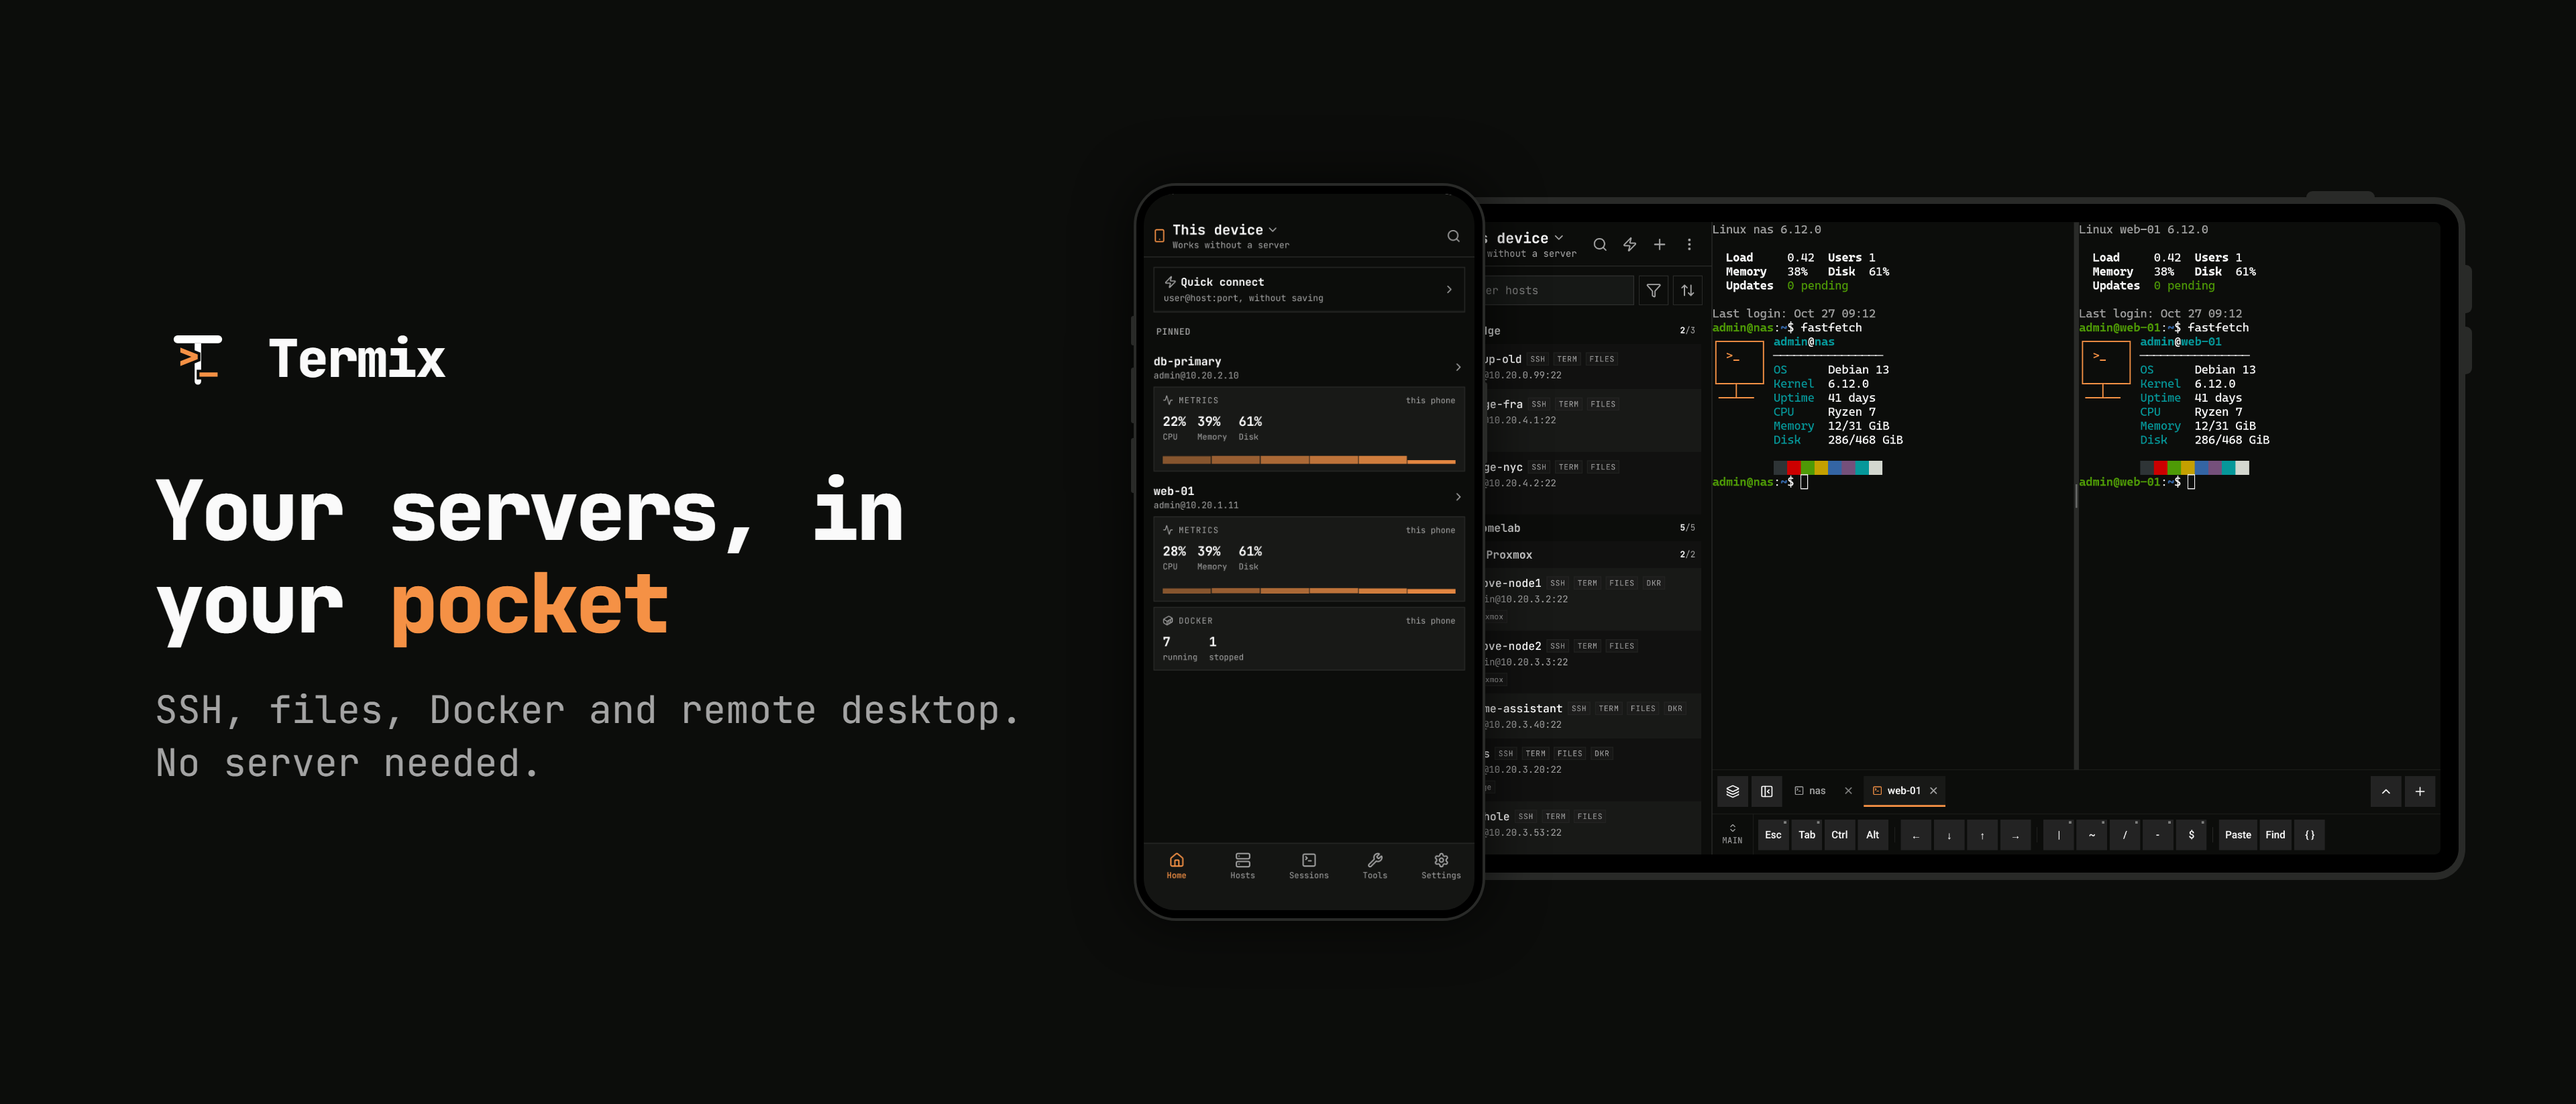
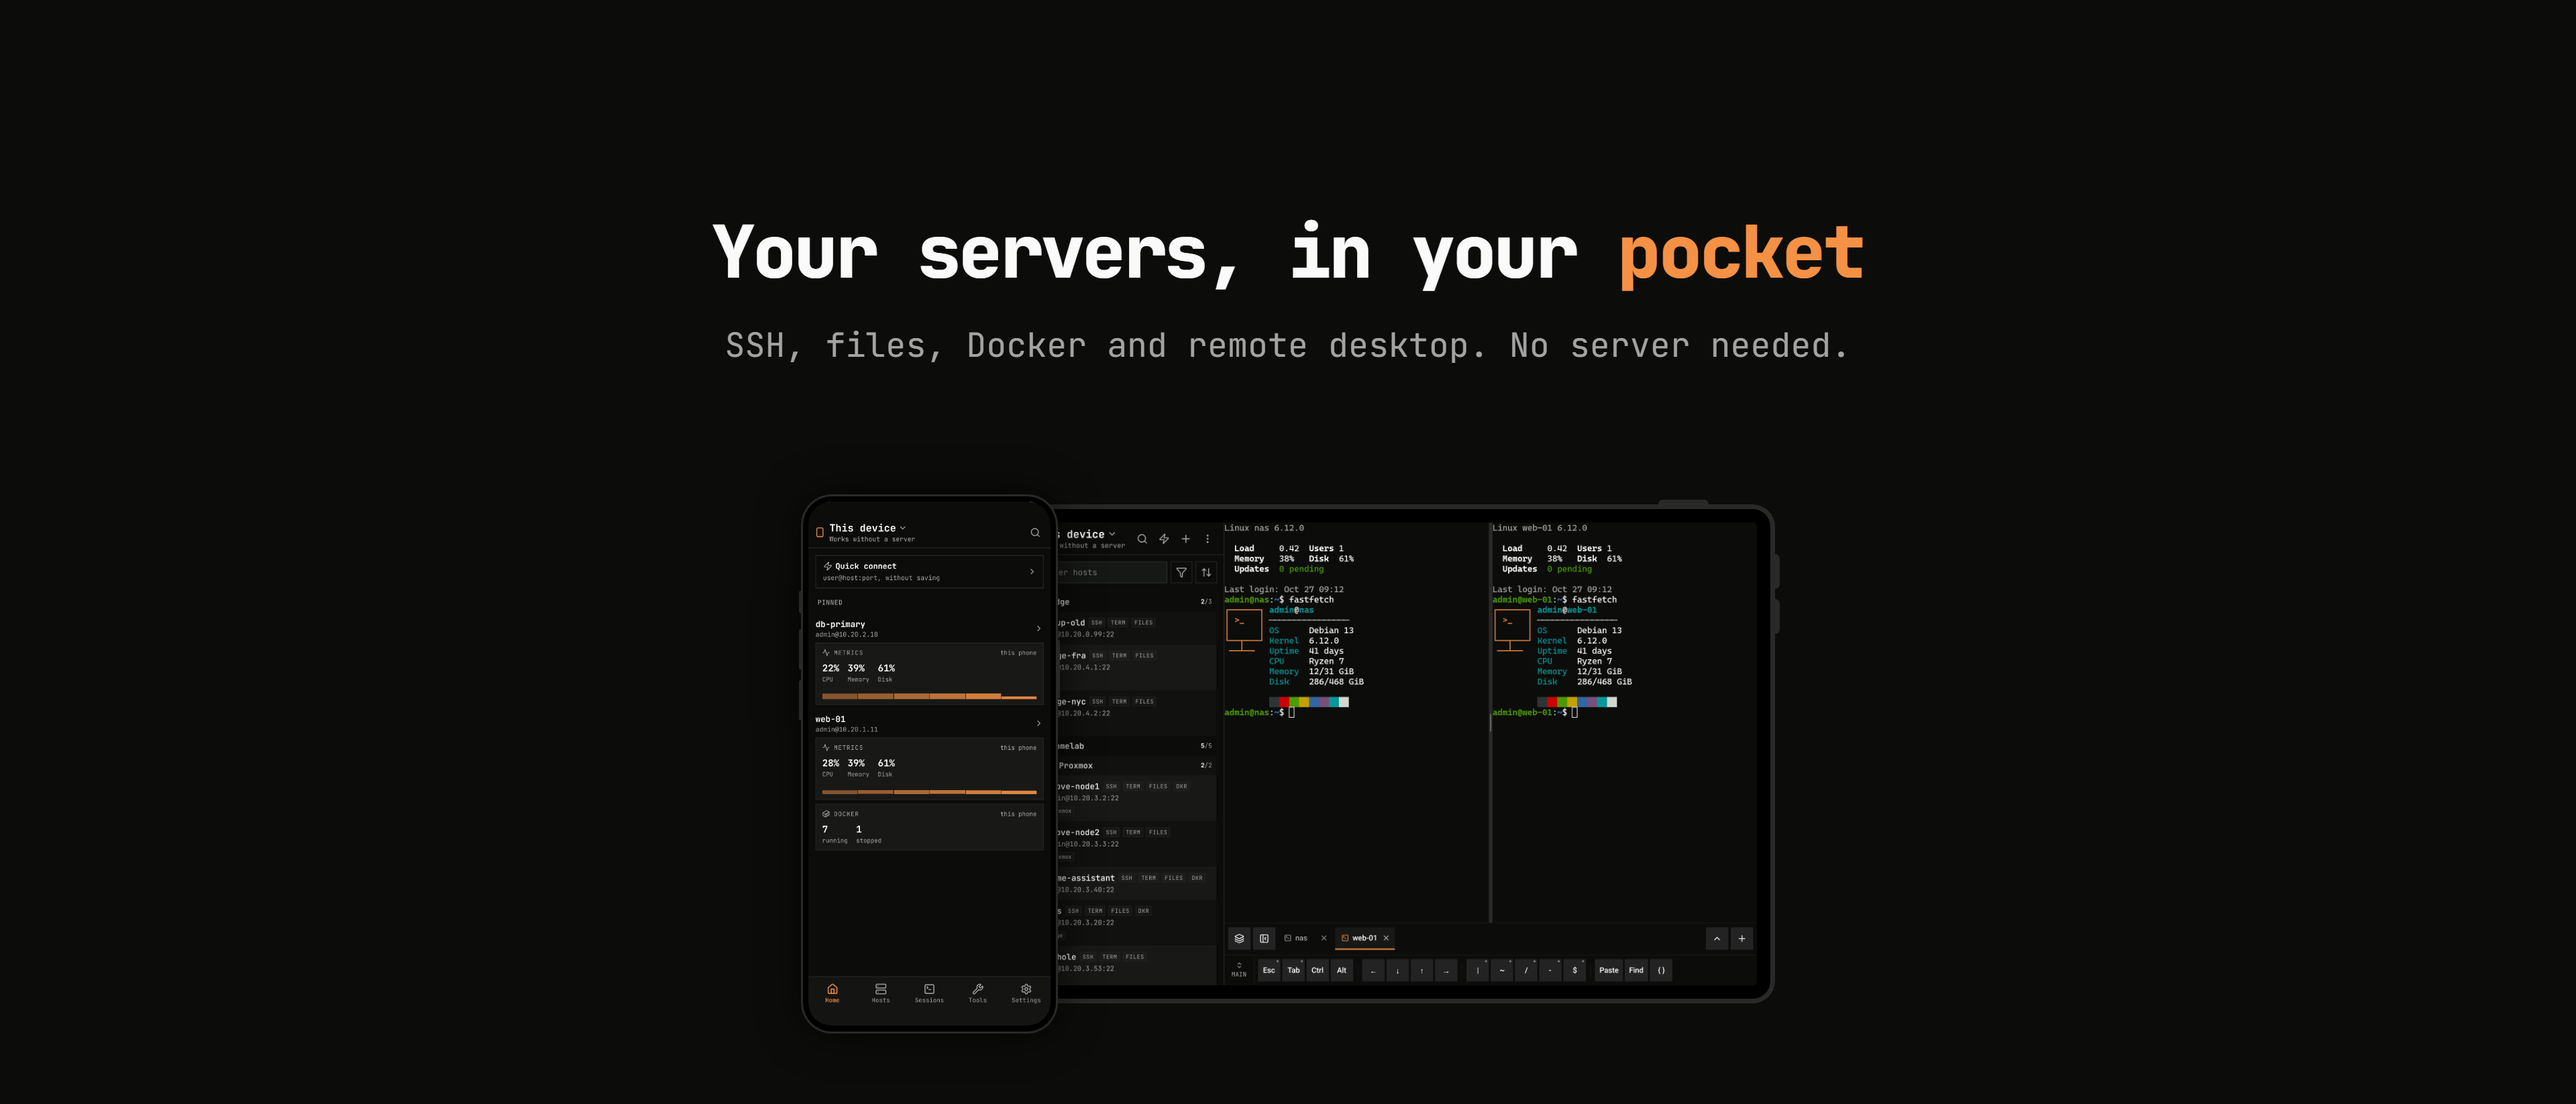
fix: store media header crop, iPad preview orientation, aligned titles, new sizes

diff --git a/store/render/Banner.tsx b/store/render/Banner.tsx
@@ -12,6 +12,11 @@ export type BannerProps = {
   phone: Shot;
   theme: string;
   accent: string;
+  /**
+   * Part of the art that is always shown, centered. Phones crop the App Store
+   * header to its middle, so everything has to fit in there.
+   */
+  safe?: { width: number; top: number; bottom: number };
 };
 
 /**
@@ -19,11 +24,15 @@ export type BannerProps = {
  * on the left, taller ones put it on top.
  */
 export function Banner(props: BannerProps) {
-  const { width, height, tablet, phone } = props;
+  const { tablet, phone, safe } = props;
   const colors = palette(props.theme, props.accent);
+  const width = props.width * (safe?.width ?? 1);
+  const height = props.height * (1 - (safe?.top ?? 0) - (safe?.bottom ?? 0));
+  const offX = (props.width - width) / 2;
+  const offY = props.height * (safe?.top ?? 0);
   const stacked = width / height < 2;
-  const pad = height * (stacked ? 0.08 : 0.1);
-  const size = Math.min(width * 0.034, height * 0.075);
+  const pad = height * (safe ? 0.05 : stacked ? 0.08 : 0.1);
+  const size = Math.min(width * (safe ? 0.048 : 0.034), height * 0.075);
   const textW = stacked ? width - pad * 2 : width * 0.36;
   const textH = stacked ? size * 3.6 : height;
 
@@ -53,8 +62,8 @@ export function Banner(props: BannerProps) {
       <div
         style={{
           position: "absolute",
-          left: stacked ? pad : pad * 1.4,
-          top: stacked ? pad : 0,
+          left: offX + (stacked ? pad : pad * 1.4),
+          top: offY + (stacked ? pad : 0),
           height: textH,
           width: textW,
           display: "flex",
@@ -97,8 +106,8 @@ export function Banner(props: BannerProps) {
       <div
         style={{
           position: "absolute",
-          left: groupL + overlap,
-          top: tabletTop,
+          left: offX + groupL + overlap,
+          top: offY + tabletTop,
         }}
       >
         <Device shots={[tablet]} kind="tablet" width={tabletW} rim={rim} />
@@ -106,8 +115,8 @@ export function Banner(props: BannerProps) {
       <div
         style={{
           position: "absolute",
-          left: groupL,
-          top: phoneTop,
+          left: offX + groupL,
+          top: offY + phoneTop,
           filter: `drop-shadow(0 0 ${phoneW * 0.08}px rgba(0, 0, 0, 0.7))`,
         }}
       >

diff --git a/store/render/Slide.tsx b/store/render/Slide.tsx
@@ -79,12 +79,15 @@ export function Heading({
   size,
   colors,
   logo,
+  logoHidden,
 }: {
   title: string;
   subtitle: string;
   size: number;
   colors: Palette;
   logo: boolean;
+  /** Keeps the logo's space so titles line up with the first slide. */
+  logoHidden?: boolean;
 }) {
   return (
     <div
@@ -96,8 +99,13 @@ export function Heading({
         gap: size * 0.32,
       }}
     >
-      {logo ? (
-        <div style={{ marginBottom: size * 0.25 }}>
+      {logo || logoHidden ? (
+        <div
+          style={{
+            marginBottom: size * 0.25,
+            visibility: logo ? "visible" : "hidden",
+          }}
+        >
           <Logo size={size * 0.95} colors={colors} />
         </div>
       ) : null}
@@ -451,7 +459,10 @@ export function Slide(props: SlideProps) {
   const { width, height, shots, kind } = props;
   const colors = palette(props.theme, props.accent);
   const { short, pad, size, textW } = headingLayout(props);
-  const headingH = headingHeight(props);
+  // In a set (headingSpace given) every slide keeps the logo's space and
+  // starts at the top, so all titles sit on the same line.
+  const inSet = props.headingSpace != null;
+  const headingH = headingHeight({ ...props, logo: props.logo || inSet });
   const space = Math.max(headingH, props.headingSpace ?? 0);
   const gap = short * 0.06;
   const boxW = width - pad * 2;
@@ -477,7 +488,7 @@ export function Slide(props: SlideProps) {
       <div
         style={{
           position: "absolute",
-          top: top + (space - headingH) / 2,
+          top: inSet ? top : top + (space - headingH) / 2,
           left: (width - textW) / 2,
           width: textW,
           display: "flex",
@@ -490,6 +501,7 @@ export function Slide(props: SlideProps) {
           size={size}
           colors={colors}
           logo={props.logo}
+          logoHidden={inSet}
         />
       </div>
       <div

diff --git a/store/render/Preview.tsx b/store/render/Preview.tsx
@@ -55,9 +55,13 @@ export function Preview(props: PreviewProps) {
   const left = (next?.t ?? Infinity) - t;
   const opacity = Math.min(1, shown / FADE, left / FADE);
 
+  // The App Store shows every item in the first one's orientation, so the
+  // iPad preview is landscape like its stills: caption left, device right.
+  const wide = props.width > props.height;
   const headH = unit * 9;
-  const boxW = props.width - pad * 2;
-  const boxH = props.height - headH - pad * 2;
+  const headW = wide ? (props.width - pad * 2) * 0.4 : undefined;
+  const boxW = wide ? props.width - pad * 3 - headW! : props.width - pad * 2;
+  const boxH = wide ? props.height - pad * 2 : props.height - headH - pad * 2;
   const shot: Shot = {
     src: props.video,
     width: props.videoWidth,
@@ -76,22 +80,27 @@ export function Preview(props: PreviewProps) {
     <AbsoluteFill
       style={{
         background: colors.background,
+        flexDirection: wide ? "row" : "column",
         alignItems: "center",
+        justifyContent: wide ? "center" : undefined,
+        gap: wide ? pad : 0,
         padding: pad,
       }}
     >
       <div
         style={{
-          height: headH,
+          height: wide ? undefined : headH,
+          width: headW,
           display: "flex",
           alignItems: "center",
+          justifyContent: "center",
           opacity: Math.max(0, opacity),
         }}
       >
         <Heading
           title={caption?.title ?? ""}
           subtitle=""
-          size={unit * 3.2}
+          size={unit * (wide ? 2.6 : 3.2)}
           colors={colors}
           logo={false}
         />

diff --git a/store/devices.ts b/store/devices.ts
@@ -116,12 +116,21 @@ export const OUTPUTS: Output[] = [
     preview: { from: "iphone", size: { width: 886, height: 1920 } },
   },
   {
+    // Product page tests ask for this size and won't scale down the 6.9" set.
+    id: "iphone-medium",
+    store: "ios",
+    label: 'iPhone 6.3"',
+    stills: "android-phone",
+    size: { width: 1206, height: 2622 },
+  },
+  {
     id: "ipad",
     store: "ios",
     label: 'iPad 13"',
     stills: "android-tablet",
     size: { width: 2752, height: 2064 },
-    preview: { from: "ipad", size: { width: 1200, height: 1600 } },
+    // Landscape like the stills, or the App Store turns the stills sideways.
+    preview: { from: "ipad", size: { width: 1600, height: 1200 } },
   },
   {
     id: "iphone-duo",
@@ -138,12 +147,21 @@ export const OUTPUTS: Output[] = [
     size: { width: 1080, height: 1920 },
     fdroid: "phoneScreenshots",
   },
+  // Play wants 16:9 tablet shots.
   {
-    id: "tablet",
+    id: "tablet-7",
     store: "android",
-    label: "Play tablet",
+    label: 'Play 7" tablet',
     stills: "android-tablet",
-    size: { width: 2560, height: 1600 },
+    size: { width: 1920, height: 1080 },
+    fdroid: "sevenInchScreenshots",
+  },
+  {
+    id: "tablet-10",
+    store: "android",
+    label: 'Play 10" tablet',
+    stills: "android-tablet",
+    size: { width: 2560, height: 1440 },
     fdroid: "tenInchScreenshots",
   },
 ];

diff --git a/store/render/banners.ts b/store/render/banners.ts
@@ -31,8 +31,16 @@ const OUT = join(STORE, "art");
 const TITLE = "Your servers, in your *pocket*";
 const SUBTITLE = "SSH, files, Docker and remote desktop. No server needed.";
 
-const SIZES = [
-  { id: "header", width: 3840, height: 1646 },
+const SIZES: (Pick<BannerProps, "width" | "height" | "safe"> & {
+  id: string;
+})[] = [
+  // An iPhone shows only about the middle 64 percent, under the status bar.
+  {
+    id: "header",
+    width: 3840,
+    height: 1646,
+    safe: { width: 0.6, top: 0.1, bottom: 0.02 },
+  },
   { id: "search", width: 3840, height: 2560 },
   // Google Play feature graphic.
   { id: "feature", width: 1024, height: 500 },
@@ -79,8 +87,9 @@ const serveUrl = await bundle({
 
 mkdirSync(OUT, { recursive: true });
 for (const size of SIZES) {
+  const { id, ...dims } = size;
   const inputProps: BannerProps = {
-    ...size,
+    ...dims,
     title: TITLE,
     subtitle: SUBTITLE,
     tablet,
@@ -93,7 +102,7 @@ for (const size of SIZES) {
     id: "Banner",
     inputProps: inputProps as unknown as Record<string, unknown>,
   });
-  const name = `${size.id}-${size.width}x${size.height}.png`;
+  const name = `${id}-${size.width}x${size.height}.png`;
   await renderStill({
     composition,
     serveUrl,

diff --git a/store/render/run.ts b/store/render/run.ts
@@ -171,8 +171,8 @@ for (const device of outputs) {
     device.size ?? { width: even(first.width), height: even(first.height) };
   // Same heading space on every slide, so the device never moves.
   const headingSpace = Math.max(
-    ...slides.map(({ slide, shots }, i) =>
-      headingHeight({ ...sizeOf(shots[0]!), ...slide, logo: i === 0 }),
+    ...slides.map(({ slide, shots }) =>
+      headingHeight({ ...sizeOf(shots[0]!), ...slide, logo: true }),
     ),
   );
 
@@ -265,7 +265,7 @@ for (const device of outputs) {
     mkdirSync(meta, { recursive: true });
     slides.forEach(({ slide }, i) => {
       const name = `${String(i + 1).padStart(2, "0")}-${slide.id}.png`;
-      cpSync(join(dir, name), join(meta, `${i + 1}.png`));
+      cpSync(join(dir, name), join(meta, name));
     });
     console.log(`  copied to fastlane/metadata (${device.fdroid})`);
   }
